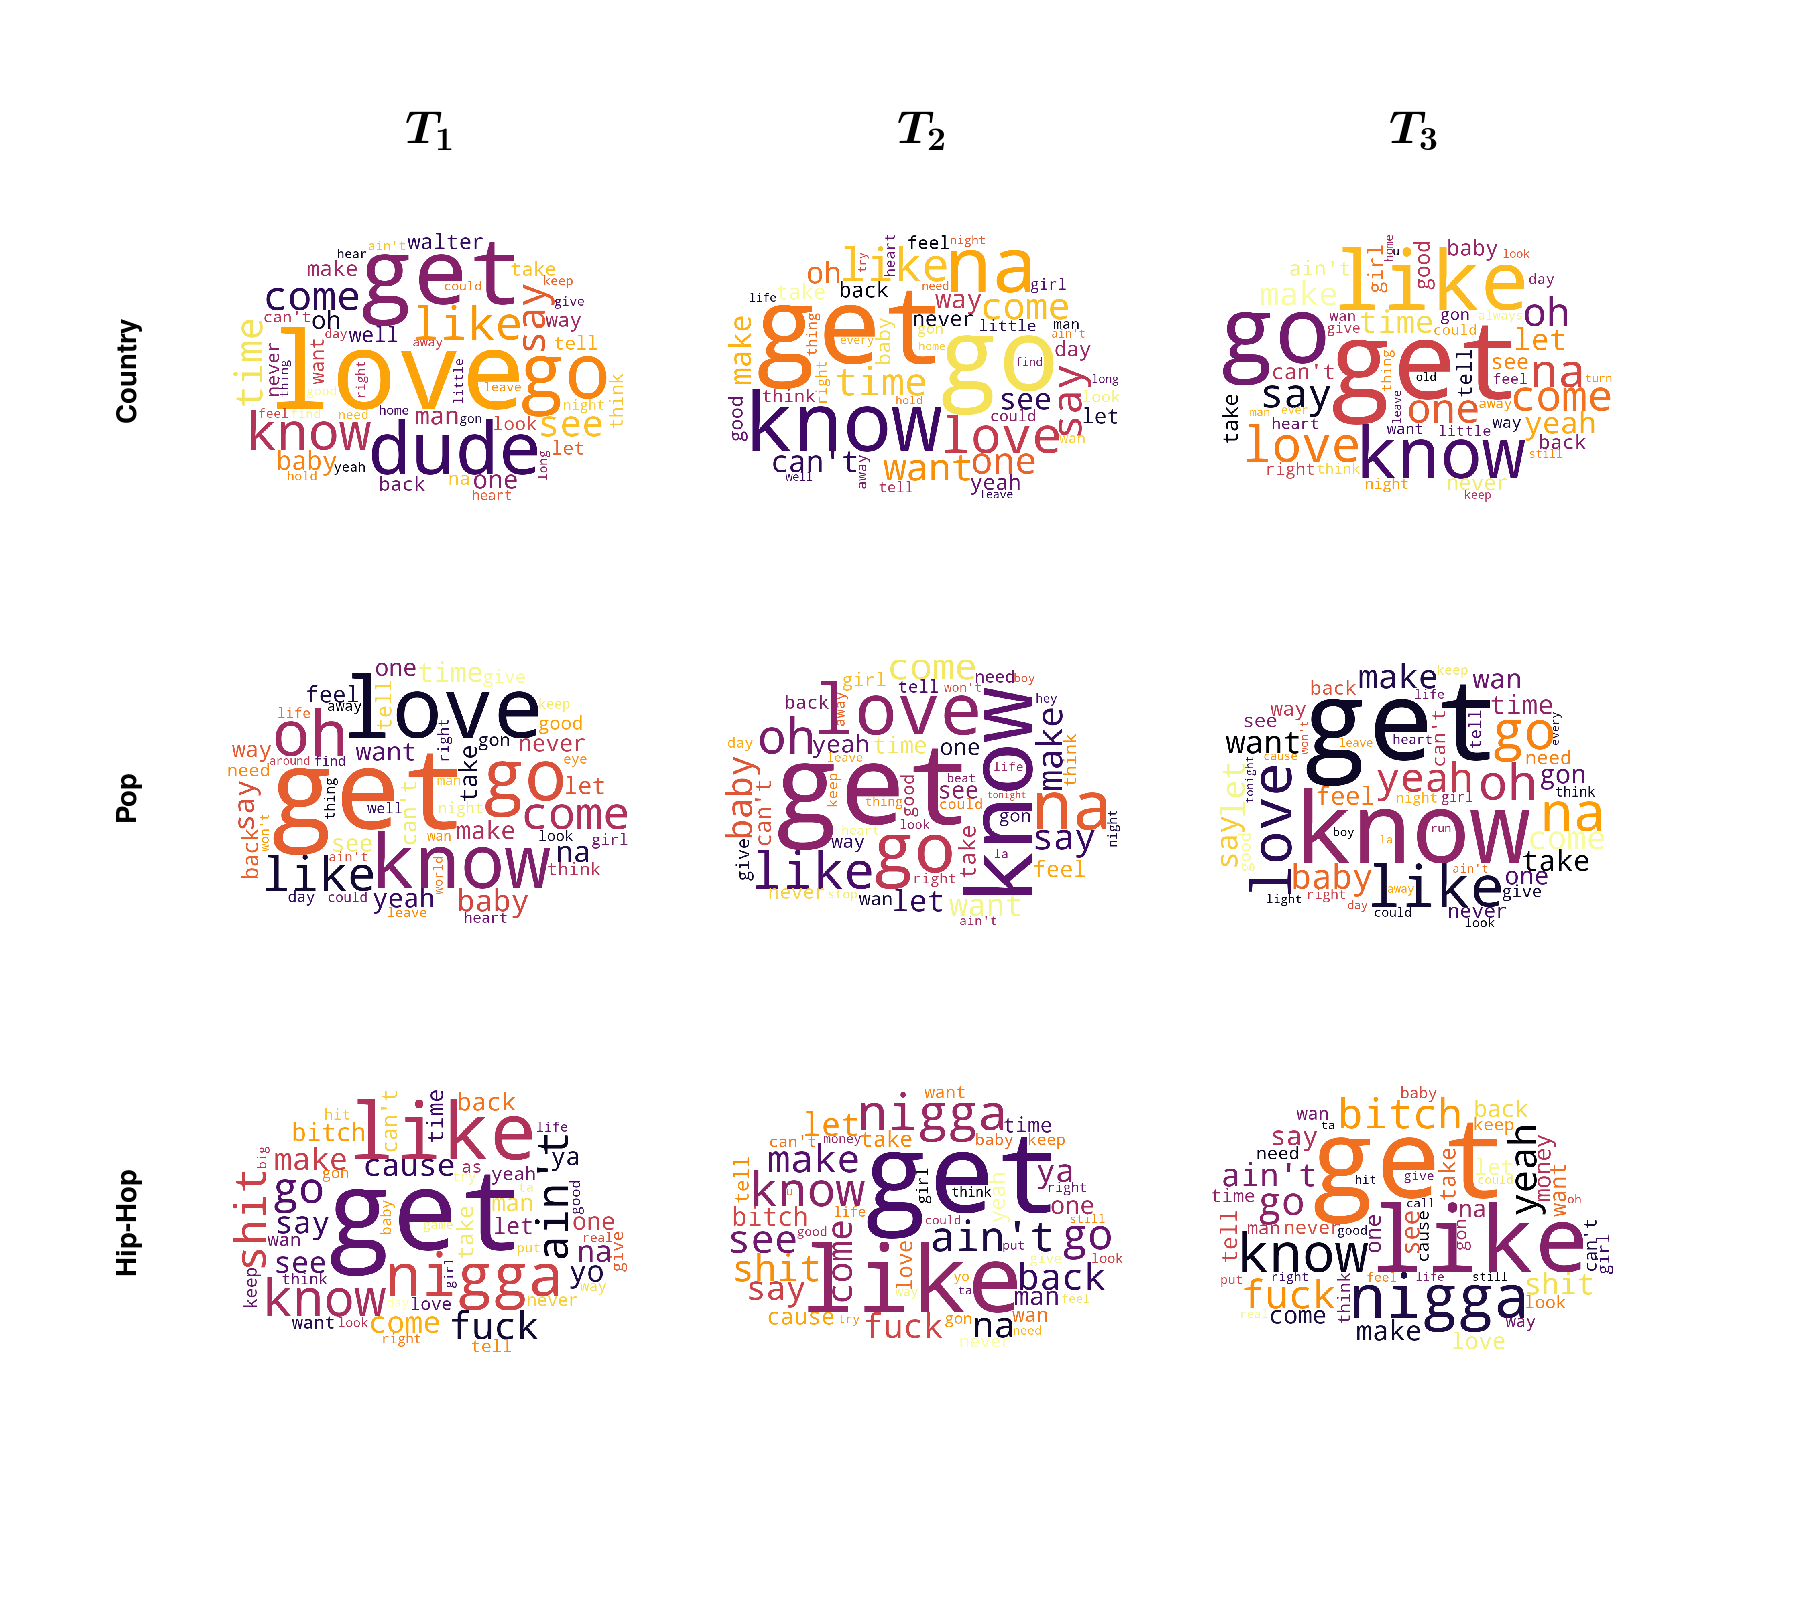
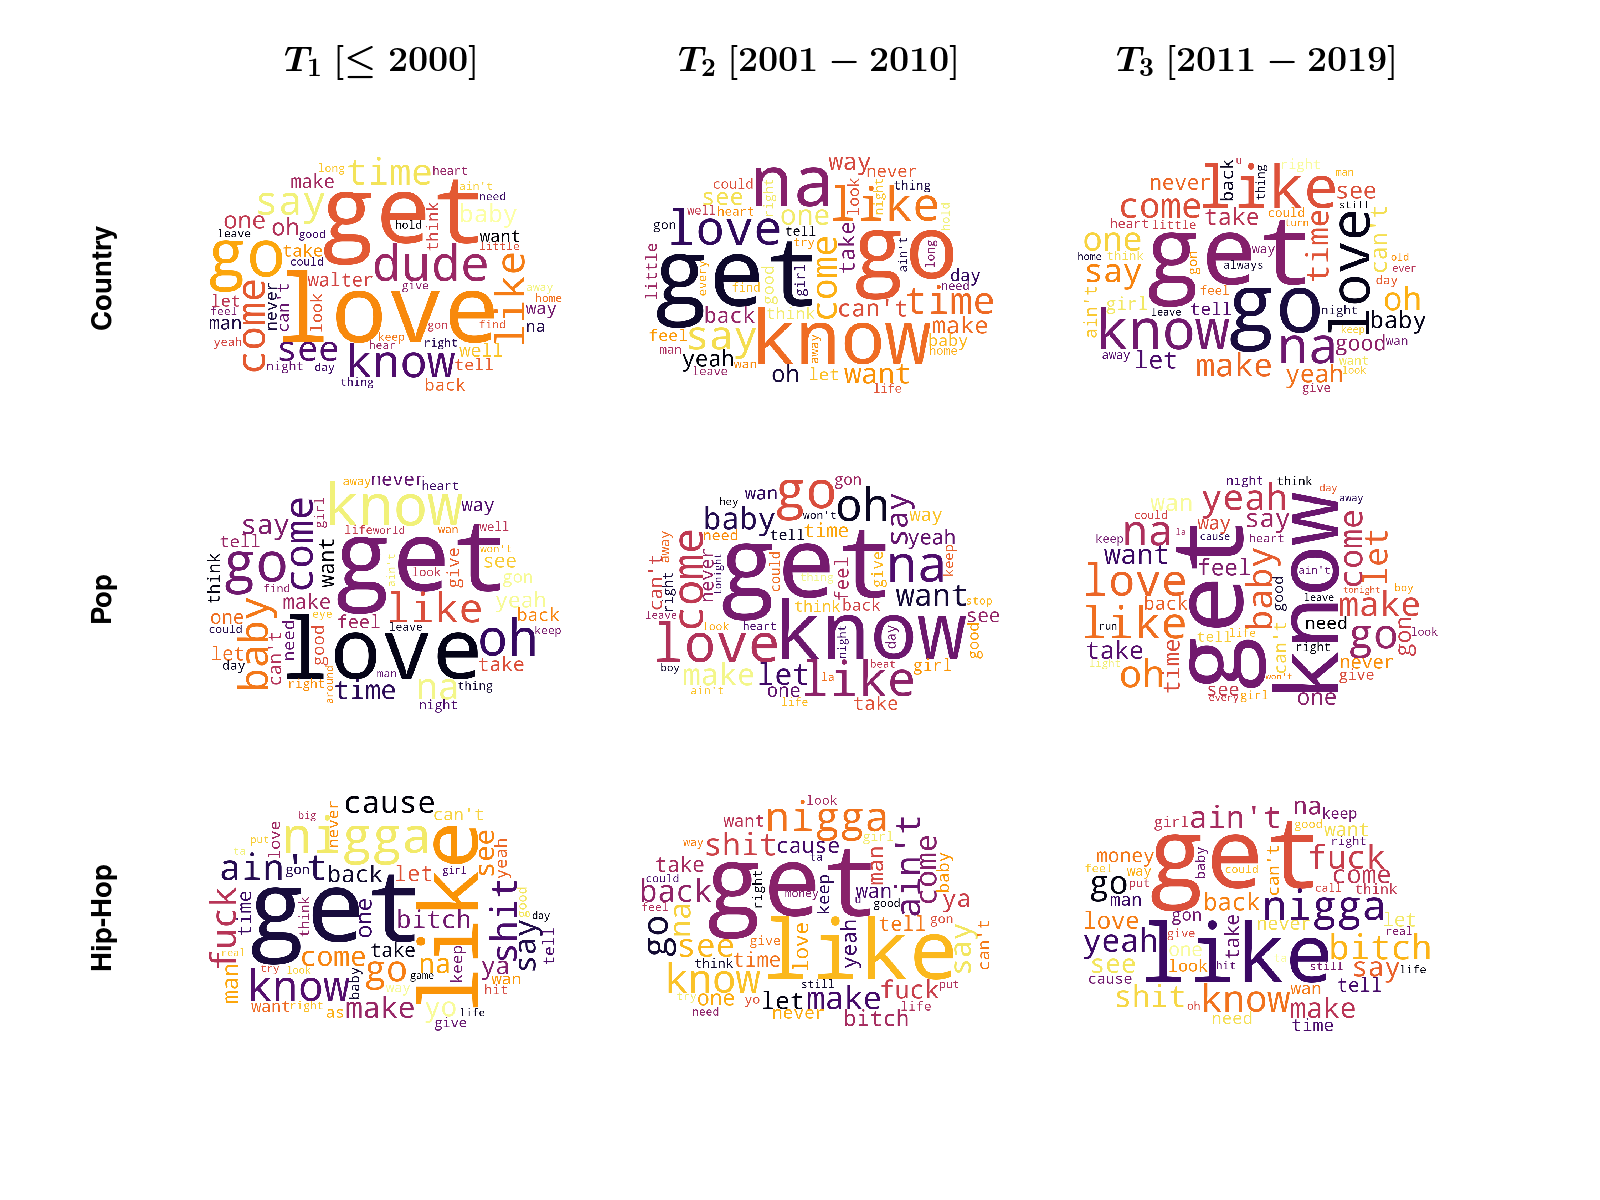
:snail: update to vis and corrected spider plot

diff --git a/src/numerical_stats/visualize_spider.py b/src/numerical_stats/visualize_spider.py
@@ -25,27 +25,27 @@ for i in range(0,len(df1.index)):
     df1.iloc[i,2:5] = (df1.iloc[i,2:5]/maxi[i%len(maxi)])*100
 a,b,c,d,e = (0,1,2,3,4)
 df = pd.DataFrame({
-"TTR": df1.iloc[a,2:].values.tolist()+df1.iloc[a+5,2:].values.tolist()+df1.iloc[a+10,2:].values.tolist(),
-"AWL": df1.iloc[b,2:].values.tolist()+df1.iloc[b+5,2:].values.tolist()+df1.iloc[b+10,2:].values.tolist(),
-"EGO": df1.iloc[c,2:].values.tolist()+df1.iloc[c+5,2:].values.tolist()+df1.iloc[c+10,2:].values.tolist(),
-"NSW": df1.iloc[d,2:].values.tolist()+df1.iloc[d+5,2:].values.tolist()+df1.iloc[d+10,2:].values.tolist(),
+"AWL": df1.iloc[a,2:].values.tolist()+df1.iloc[a+5,2:].values.tolist()+df1.iloc[a+10,2:].values.tolist(),
+"TTR": df1.iloc[b,2:].values.tolist()+df1.iloc[b+5,2:].values.tolist()+df1.iloc[b+10,2:].values.tolist(),
+"NSW": df1.iloc[c,2:].values.tolist()+df1.iloc[c+5,2:].values.tolist()+df1.iloc[c+10,2:].values.tolist(),
+"EGO": df1.iloc[d,2:].values.tolist()+df1.iloc[d+5,2:].values.tolist()+df1.iloc[d+10,2:].values.tolist(),
 "SEN": df1.iloc[e,2:].values.tolist()+df1.iloc[e+5,2:].values.tolist()+[el*-1 for el in df1.iloc[e+10,2:].values.tolist()]
 })
 
 # modified from https://python-graph-gallery.com/392-use-faceting-for-radar-chart/
 def make_spider(ind, title, color):
-    plt.subplots_adjust(wspace=25, hspace = 25)
+    plt.subplots_adjust(wspace=9, hspace = 16)
     categories=list(df)
     N = len(categories)
     angles = [n / float(N) * 2 * pi for n in range(N)]
     angles += angles[:1]
     ax = plt.subplot(3,3,ind+1, polar=True)
     if ind == 0:
-        ax.set_ylabel(r'\textbf{Country}', labelpad = 35, fontsize = 12)
+        ax.set_ylabel(r'\textbf{Country}', labelpad = 40, fontsize = 12)
     elif ind == 3:
-        ax.set_ylabel(r'\textbf{Pop}', labelpad = 35, fontsize = 12)
+        ax.set_ylabel(r'\textbf{Pop}', labelpad = 40, fontsize = 12)
     elif ind == 6:
-        ax.set_ylabel(r'\textbf{Hip-Hop}',labelpad = 35, fontsize = 12)
+        ax.set_ylabel(r'\textbf{Hip-Hop}',labelpad = 40, fontsize = 12)
     ax.set_theta_offset(pi / 2)
     ax.set_theta_direction(-1)
     plt.xticks(angles[:-1], categories, color='dimgray', size=8)
@@ -59,15 +59,15 @@ def make_spider(ind, title, color):
     if ind in [6,7,8]:
          plt.xticks(angles[:-1], ['AWL', 'EGO', 'NSW', r'SEN$^\dagger$', 'TTR'], color='dimgray', size=8)
     if ind in [0,1,2]:
-        plt.title(title, size=17, color="black", y=1.1)
+        plt.title(title, size=14, color="black", y=1.1)
     plt.tight_layout()
     
 # run pipeline
 def run(path):
     my_dpi=180
-    plt.figure(figsize=(1800/my_dpi, 2000/my_dpi), dpi=my_dpi)
+    plt.figure(figsize=(1800/my_dpi, 1600/my_dpi), dpi=my_dpi)
     colour = ["blue", "orangered", "lightcoral"]
-    group = [r'$T_1$',r'$T_2$',r'$T_3$']
+    group = [r'$T_1$ $[\leq 2000]$',r'$T_2$ $[2001-2010]$',r'$T_3$ $[2011-2019]$']
     for ind in range(0, len(df.index)):
         make_spider(ind=ind, title=group[ind%len(group)], color=colour[ind%len(colour)])
     plt.savefig(path)

diff --git a/src/numerical_stats/visualize_freq.py b/src/numerical_stats/visualize_freq.py
@@ -30,9 +30,9 @@ def makeWordCloud(path):
                 d["can't"] = d.pop(key)
             elif key == "wo":
                 d["won't"] = d.pop(key)
-    title = [r'$T_1$',r'$T_2$',r'$T_3$']
+    title = [r'$T_1$ $[\leq 2000]$',r'$T_2$ $[2001-2010]$',r'$T_3$ $[2011-2019]$']
     my_dpi=200
-    fig = plt.figure(figsize=(1800/my_dpi, 1600/my_dpi), dpi=my_dpi)
+    fig = plt.figure(figsize=(1600/my_dpi, 1200/my_dpi), dpi=my_dpi)
     for i in range(len(k)):
         im = Image.open("../data/img/cloud.png")
         im = im.convert('L')
@@ -44,7 +44,7 @@ def makeWordCloud(path):
         ax = fig.add_subplot(3,3,i+1)
         ax.imshow(w)
         if i in [0,1,2]:
-            plt.title(title[i], size=17, color="black", y=1.1)
+            plt.title(title[i], size=13, color="black", y=1.1)
         if i == 0:
             ax.set_ylabel(r'\textbf{Country}', labelpad = 30, fontsize = 10)
         elif i == 3:
@@ -53,7 +53,7 @@ def makeWordCloud(path):
             ax.set_ylabel(r'\textbf{Hip-Hop}',labelpad = 30, fontsize = 10)
         ax.set_yticklabels([])
         ax.set_xticklabels([])
-        ax.get_xaxis().set_ticks([])
+        ax.get_xaxis().set_ticks([])    
         ax.get_yaxis().set_ticks([])
         ax.spines['top'].set_visible(False)
         ax.spines['right'].set_visible(False)
@@ -78,7 +78,7 @@ def makeBar(path):
                 d["can't"] = d.pop(key)
             elif key == "wo":
                 d["won't"] = d.pop(key)
-    title = [r'$T_1$',r'$T_2$',r'$T_3$']
+    title = [r'$T_1$ $[\leq 2000]$',r'$T_2$ $[2001-2010]$',r'$T_3$ $[2011-2019]$']
     color = ["blue", "orangered", "lightcoral"]
     maxi = []
     maxi.extend([1.1*max([item for el in k[:3] for item in list(el.values())])])
@@ -123,7 +123,7 @@ def makeBarExtend(path):
                 d["can't"] = d.pop(key)
             elif key == "wo":
                 d["won't"] = d.pop(key)
-    title = [r'$T_1$',r'$T_2$',r'$T_3$']
+    title = [r'$T_1$ $[\leq 2000]$',r'$T_2$ $[2001-2010]$',r'$T_3$ $[2011-2019]$']
     color = ["blue", "orangered", "lightcoral"]
     maxi = []
     maxi.extend([1.1*max([item for el in k[:3] for item in list(el.values())])])
